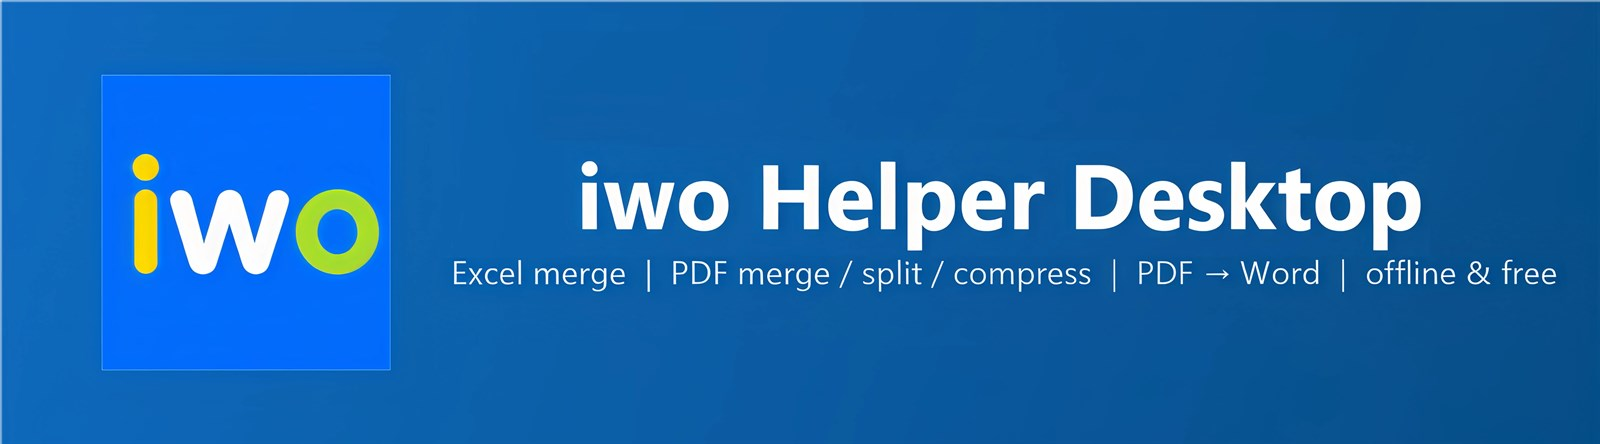
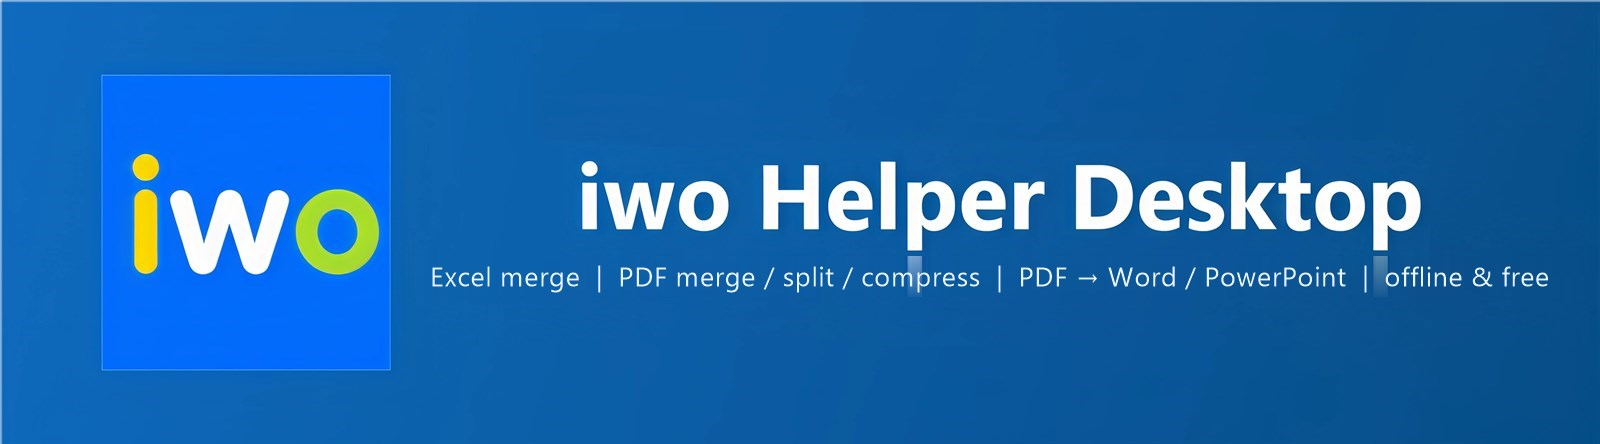
Stop the system font from reaching the layout, and make a double-click mean one thing
Windows has a text-size setting separate from display scaling, and it moves the system
font underneath an application. Every window here already sets its own font, so that
setting could not touch them - except through menus, which are drawn with the system
menu font while their strip has a fixed height. A larger system font clipped the
captions from below. Menus now use the application font like everything else, which is
the whole of the exposure: a test walks the windows and the menu strip and fails if a
control turns up with a font from outside the app's own set, and it fails on the old
code.

A double-click on the zoom percentage now resets it to 100 %, the same as a double-click
on the "%" beside it and the same as Ctrl+0. Before, it selected the number - and a
selection appearing out of nowhere reads as "copied to the clipboard": a gesture that
looks like it worked while doing nothing at all. The spinner arrows are deliberately left
alone, because a quick double-click there is two steps of zoom and not a request to
reset; both halves are covered by a live test that drives the inner text box and the
arrows separately.

The README contents now carry the same icons as the sections they lead to, split across
two short rows - a row wider than about seven hundred pixels is wrapped and centred by
GitHub, which reads as a vertical list of links rather than a line of them.

The banner said the app turns PDFs into Word and stopped there. It is a picture with the
[…]

Changed region(s): [[0.25, 0.5856, 0.9688, 0.6734]]

diff --git a/tests/UnitTests.cs b/tests/UnitTests.cs
@@ -335,6 +335,8 @@ namespace ExcelMerger.Tests
             Run("Обновления: подпись флажка помещается в диалог на обоих языках", TestUpdateSkipCaptionFits);
             Run("Настройки (живое): три действия истории — в ряд и без обрезки подписей", TestSettingsHistoryRowLive);
             Run("Хаб (живое): значки настроек и справки доступны с клавиатуры и диктору", TestHubIconButtonsLive);
+            Run("Крупный системный шрифт: окна и меню живут своим шрифтом", TestSystemFontIgnoredLive);
+            Run("Масштаб (живое): двойной клик по полю процентов возвращает 100%", TestZoomDoubleClickResetsLive);
             Run("Настройки (живое): флажок пишется, «снова напоминать» появляется по делу", TestSettingsUpdateControlsLive);
 
             Run("XmlText: экранируются & < > и кавычка", TestXmlEscape);
@@ -371,7 +373,7 @@ namespace ExcelMerger.Tests
             Console.WriteLine("Пройдено: " + _passed + ", провалено: " + _failed);
             // Нижняя граница числа тестов: без неё удалённая строка Run(...) проходит незаметно —
             // прогон остаётся зелёным, просто проверок становится меньше. Растёт вместе с набором.
-            const int MinTests = 335;
+            const int MinTests = 337;
             int total = _passed + _failed;
             int code = _failed == 0 ? 0 : 1;
             if (total < MinTests)
@@ -6405,6 +6407,128 @@ namespace ExcelMerger.Tests
                     }
             });
             AssertTrue(offenders.Count == 0, "раскладка диалогов: " + string.Join(" | ", offenders.ToArray()));
+        }
+
+        /// <summary>
+        /// Двойной клик по полю процентов возвращает масштаб к 100%. Раньше этот жест штатно
+        /// ВЫДЕЛЯЛ число, и выделение принимали за «скопировалось в буфер»: жест выглядел
+        /// сработавшим, не делая ничего. Проверяем на настоящем окне и через внутреннее поле
+        /// ввода — события мыши получает именно оно, а не сам NumericUpDown.
+        /// </summary>
+        private static void TestZoomDoubleClickResetsLive()
+        {
+            var offenders = new List<string>();
+            RunSta(delegate
+            {
+                using (var form = new OcrForm())
+                {
+                    IntPtr handle = form.Handle;
+                    if (handle == IntPtr.Zero) { offenders.Add("окно не создалось"); return; }
+                    System.Windows.Forms.NumericUpDown input = null;
+                    foreach (System.Windows.Forms.Control c in form.Controls)
+                    {
+                        input = c as System.Windows.Forms.NumericUpDown;
+                        if (input != null) break;
+                    }
+                    if (input == null) { offenders.Add("поля процентов нет"); return; }
+
+                    // Значение заведомо допустимое и ЗАВЕДОМО не 100%: границы масштаба
+                    // заданы ThumbZoom, и литерал вроде 50 может оказаться вне диапазона.
+                    input.Value = input.Maximum;
+                    System.Windows.Forms.Control inner = null;
+                    foreach (System.Windows.Forms.Control c in input.Controls)
+                        if (c is System.Windows.Forms.TextBox) { inner = c; break; }
+                    if (inner == null) { offenders.Add("внутреннего поля ввода нет"); return; }
+
+                    // Двойной клик приходит внутреннему полю — поднимаем событие именно у него.
+                    System.Reflection.MethodInfo raise = typeof(System.Windows.Forms.Control).GetMethod(
+                        "OnDoubleClick", System.Reflection.BindingFlags.Instance | System.Reflection.BindingFlags.NonPublic);
+                    if (raise == null) { offenders.Add("не добраться до OnDoubleClick"); return; }
+                    raise.Invoke(inner, new object[] { EventArgs.Empty });
+
+                    if (input.Value != 100)
+                        offenders.Add("после двойного клика масштаб " + input.Value + "%, а должен быть 100%");
+
+                    // А вот двойной щелчок по СТРЕЛКАМ сбрасывать не должен: это два шага
+                    // масштаба подряд, а не просьба вернуть 100%.
+                    System.Windows.Forms.Control buttons = null;
+                    foreach (System.Windows.Forms.Control c in input.Controls)
+                        if (!(c is System.Windows.Forms.TextBox)) { buttons = c; break; }
+                    if (buttons != null)
+                    {
+                        input.Value = input.Maximum;
+                        raise.Invoke(buttons, new object[] { EventArgs.Empty });
+                        if (input.Value != input.Maximum)
+                            offenders.Add("двойной щелчок по стрелкам сбросил масштаб, а не должен");
+                    }
+                }
+            });
+            AssertTrue(offenders.Count == 0, "сброс масштаба: " + string.Join(" | ", offenders.ToArray()));
+        }
+
+        /// <summary>
+        /// Размер шрифта, выбранный в системе («размер текста» в специальных возможностях),
+        /// не должен доставать до нашей раскладки: все окна задают шрифт явно, а полоса меню
+        /// имеет фиксированную высоту, и системным шрифтом её подписи обрезало бы снизу.
+        /// Проверяем оба конца: окна и все их контролы живут разрешёнными шрифтами, а меню —
+        /// шрифтом приложения, и его подписи помещаются в высоту полосы.
+        /// </summary>
+        private static void TestSystemFontIgnoredLive()
+        {
+            var offenders = new List<string>();
+            // Символьные шрифты законны: ими рисуются глифы значков и стрелок.
+            var allowed = new List<string> { "Segoe UI", "Segoe MDL2 Assets", "Segoe UI Symbol", "Segoe UI Emoji" };
+            RunSta(delegate
+            {
+                var windows = new List<System.Windows.Forms.Form>
+                {
+                    new StartForm(), new SettingsForm(), new AboutForm(), new StatsForm()
+                };
+                try
+                {
+                    foreach (System.Windows.Forms.Form form in windows)
+                    {
+                        IntPtr handle = form.Handle;
+                        if (handle == IntPtr.Zero) { offenders.Add(form.GetType().Name + ": окно не создалось"); continue; }
+                        if (Math.Abs(form.Font.SizeInPoints - 9.75f) > 0.01f)
+                            offenders.Add(form.GetType().Name + ": шрифт окна " + form.Font.SizeInPoints + " pt");
+                        WalkFonts(form, form.GetType().Name, allowed, offenders);
+                    }
+                }
+                finally
+                {
+                    foreach (System.Windows.Forms.Form form in windows)
+                        try { form.Dispose(); } catch { }
+                }
+
+                // Полоса меню: свой шрифт и подписи, помещающиеся в её фиксированную высоту.
+                using (var owner = new System.Windows.Forms.Form())
+                {
+                    System.Windows.Forms.MenuStrip menu = HelpMenu.Create(owner, delegate { });
+                    if (Math.Abs(menu.Font.SizeInPoints - 9.75f) > 0.01f)
+                        offenders.Add("полоса меню: шрифт " + menu.Font.SizeInPoints + " pt (системный?)");
+                    foreach (System.Windows.Forms.ToolStripItem item in menu.Items)
+                    {
+                        int need = System.Windows.Forms.TextRenderer.MeasureText(item.Text, menu.Font).Height;
+                        if (need > HelpMenu.Height - 6)
+                            offenders.Add("пункт «" + item.Text + "» не помещается в полосу: нужно " + need);
+                    }
+                    menu.Dispose();
+                }
+            });
+            AssertTrue(offenders.Count == 0, "системный шрифт: " + string.Join(" | ", offenders.ToArray()));
+        }
+
+        /// <summary>Обойти дерево контролов и собрать те, чей шрифт не из разрешённых семейств.</summary>
+        private static void WalkFonts(System.Windows.Forms.Control root, string where,
+            List<string> allowed, List<string> offenders)
+        {
+            foreach (System.Windows.Forms.Control c in root.Controls)
+            {
+                if (c.Font != null && !allowed.Contains(c.Font.FontFamily.Name))
+                    offenders.Add(where + ": " + c.GetType().Name + " шрифтом «" + c.Font.FontFamily.Name + "»");
+                WalkFonts(c, where, allowed, offenders);
+            }
         }
 
         /// <summary>Выполнить действие на STA-потоке: окна WinForms другого не терпят.</summary>

diff --git a/src/PdfToolFormBase.cs b/src/PdfToolFormBase.cs
@@ -166,7 +166,29 @@ namespace ExcelMerger
                 _zoom.Value = width; // → ValueChanged → ScheduleZoom + SyncZoomInput (под guard)
         }
 
-        /// <summary>Сбросить масштаб к 100% (Ctrl+0, двойной клик по «%»).</summary>
+        /// <summary>
+        /// Подписать обработчик двойного клика на контрол и на его ПОЛЕ ВВОДА. Составные
+        /// контролы (NumericUpDown) отдают события мыши вложенному полю, и подписка только на
+        /// внешний контрол молча не сработала бы. Кнопки-стрелки НЕ подписываем: быстрый
+        /// двойной щелчок по стрелке — это два шага масштаба, а не просьба сбросить его.
+        /// Возвращает число подписок — по нему проверка видит, что поле не забыто.
+        /// </summary>
+        internal static int WireDoubleClick(Control control, EventHandler handler)
+        {
+            if (control == null || handler == null)
+                return 0;
+            control.DoubleClick += handler;
+            int count = 1;
+            foreach (Control child in control.Controls)
+                if (child is TextBoxBase)
+                {
+                    child.DoubleClick += handler;
+                    count++;
+                }
+            return count;
+        }
+
+        /// <summary>Сбросить масштаб к 100% (Ctrl+0, двойной клик по полю «%» и по самой подписи).</summary>
         private void ResetZoom()
         {
             if (_zoom != null)
@@ -410,6 +432,12 @@ namespace ExcelMerger
             _zoomPct.Anchor = AnchorStyles.Bottom | AnchorStyles.Right;
             _zoomPct.Cursor = Cursors.Hand;                    // рука на «%»: видно, что кликабельно (сброс)
             _zoomPct.DoubleClick += delegate { ResetZoom(); }; // двойной клик по «%» → 100%
+            // Двойной клик по САМОМУ полю — тот же сброс. Штатно он выделял бы число, и это
+            // выделение люди принимают за «скопировалось в буфер»: жест выглядит сработавшим,
+            // хотя не делает ничего. Один и тот же жест на поле и на «%» рядом обязан значить
+            // одно и то же, поэтому подписываем обработчик и полю, и его внутренним контролам
+            // (у NumericUpDown события мыши получает вложенное поле ввода, а не он сам).
+            WireDoubleClick(_zoomInput, delegate { ResetZoom(); });
 
             _zoomTimer = new System.Windows.Forms.Timer();
             _zoomTimer.Interval = 60; // троттлинг пересборки плиток при перетаскивании регулятора

diff --git a/src/HelpMenu.cs b/src/HelpMenu.cs
@@ -14,9 +14,20 @@ namespace ExcelMerger
     {
         public const int Height = 28;
 
+        /// <summary>
+        /// Меню рисуются шрифтом ПРИЛОЖЕНИЯ, а не системным шрифтом меню. Причина простая:
+        /// полоса меню имеет фиксированную высоту (<see cref="Height"/>, её масштабирует DPI),
+        /// а системный размер шрифта задаётся ОТДЕЛЬНОЙ настройкой Windows — «размер текста» в
+        /// специальных возможностях. С крупным системным шрифтом подписи в полосе обрезались
+        /// бы снизу, и это единственное место, где системный шрифт вообще доставал до нашей
+        /// раскладки: все окна свой шрифт задают явно.
+        /// </summary>
+        private static Font AppFont { get { return Ui.Font(9.75f); } }
+
         public static MenuStrip Create(Form owner, Action showHowTo, params ToolStripMenuItem[] extras)
         {
             var menu = new MenuStrip();
+            menu.Font = AppFont; // не системный шрифт меню — см. AppFont
             menu.AutoSize = false;
             menu.Height = Height;
             menu.Dock = DockStyle.Top;
@@ -63,6 +74,7 @@ namespace ExcelMerger
         internal static ContextMenuStrip LanguageContextMenu()
         {
             var menu = new ContextMenuStrip();
+            menu.Font = AppFont; // как и полоса меню — своим шрифтом
             menu.Items.Add(LangItem(Loc.T("menu.lang.ru"), Lang.Ru));
             menu.Items.Add(LangItem(Loc.T("menu.lang.en"), Lang.En));
             return menu;

diff --git a/src/Loc.cs b/src/Loc.cs
@@ -173,8 +173,8 @@ namespace ExcelMerger
             A("common.homeTip", "Открыть экран выбора инструмента", "Open the tool chooser");
             A("common.zoom", "Масштаб:", "Zoom:");
             A("common.tip.zoom", "Масштаб миниатюр (также Ctrl+колесо мыши)", "Thumbnail zoom (also Ctrl+mouse wheel)");
-            A("common.tip.zoomInput", "Масштаб в процентах (Ctrl+0 или двойной клик по «%» — 100%)",
-                "Zoom percentage (Ctrl+0 or double-click “%” for 100%)");
+            A("common.tip.zoomInput", "Масштаб в процентах (Ctrl+0 или двойной клик — 100%)",
+                "Zoom percentage (Ctrl+0 or a double-click for 100%)");
             A("common.busy", "Дождитесь завершения…", "Wait for it to finish…");
             A("common.err.openFailed", "Не удалось открыть", "Could not open");
             A("common.err.browser", "Не удалось открыть браузер", "Could not open the browser");

diff --git a/src/PdfPageGrid.cs b/src/PdfPageGrid.cs
@@ -1447,6 +1447,7 @@ namespace ExcelMerger
         private void BuildContextMenu()
         {
             _menu = new ContextMenuStrip();
+            _menu.Font = Ui.Font(9.75f); // шрифт приложения, а не системный (см. HelpMenu)
             _miCut = AddMenuItem(Loc.T("grid.menu.cut"), "Ctrl+X", delegate { CutSelected(); });
             _miCopy = AddMenuItem(Loc.T("grid.menu.copy"), "Ctrl+C", delegate { CopySelected(); });
             _miPaste = AddMenuItem(Loc.T("grid.menu.paste"), "Ctrl+V", delegate { PasteClipboard(); });

diff --git a/src/MainForm.cs b/src/MainForm.cs
@@ -249,6 +249,7 @@ namespace ExcelMerger
             _list.DragDrop += OnFileDragDrop;
             _list.DragLeave += delegate { HideDropLine(); };
             _listMenu = new ContextMenuStrip();
+            _listMenu.Font = Ui.Font(9.75f); // шрифт приложения, а не системный (см. HelpMenu)
             var copyItem = new ToolStripMenuItem(Loc.T("common.copy"));
             copyItem.ShortcutKeyDisplayString = "Ctrl+C";
             copyItem.Click += delegate { CopySelectedRows(); };

diff --git a/docs/CHANGELOG.md b/docs/CHANGELOG.md
@@ -54,12 +54,26 @@ versions follow [SemVer](https://semver.org/).
   the heading is centred, so the window is a screenful shorter; the paragraph explaining the
   update check is justified to both margins, because a ragged right edge is far more visible
   in a narrow window than in a page-wide text.
+- **A large system font no longer reaches our layout.** Every window sets its own font, but
+  menus did not: a menu strip has a fixed height and drew its items with the system menu
+  font, so the “text size” accessibility setting could clip the captions from below. Menus
+  now use the application font like everything else — the one place where that setting could
+  still reach the layout.
+- **A double-click on the zoom percentage resets it to 100 %**, the same as a double-click on
+  the “%” next to it and the same as Ctrl+0. It used to select the number instead, and a
+  selection that appears out of nowhere reads as “copied to the clipboard” — a gesture that
+  looks like it worked while doing nothing. A double-click on the spinner arrows still means
+  two steps of zoom, not a reset.
 - **The window header is vertically centred.** The title and its subtitle were pinned to the
   bottom edge of the coloured band, leaving empty colour above them — which read as a header
   that had slipped down. The block now stands in the middle of the band, and the language
   globe and “Back” follow it, because they are aligned to the text and not to a literal.
 - **The README badges sit on one line again.** Each was on its own source line, and GitHub
   renders that as a break — the row of badges came out as a column.
+- **The README contents carry the same icons as the sections** they point to, and the banner
+  says what the app does now — the tagline is redrawn by `tools/set_banner_tagline.ps1`,
+  which restores the background under the line by interpolating the untouched rows around it
+  instead of guessing the gradient, and shrinks the font until the line fits.
 - **The download links live in one place.** Four large buttons at the top of the README
   repeated the Download section word for word, and both rows were wider than the README
   column on a desktop, so they wrapped and the wrapped tail was centred — which is what

diff --git a/docs/ARCHITECTURE.md b/docs/ARCHITECTURE.md
@@ -143,7 +143,7 @@ are conceptual.
 | `Loc.cs`, `Flags.cs` | Localization catalog and GDI-drawn menu flags — see [Localization](#localization). |
 | `SetupLanguage.cs` | The language picked in the installer. Setup writes a one-line ASCII file next to the settings, the app applies it at startup (it outranks the stored language), saves it the normal UTF-8 way and removes the marker. Setup never edits `settings.txt` itself: it writes text in the system code page while the app reads UTF-8, and a read-modify-write would corrupt non-ASCII paths inside. |
 | `UserManual.cs` | The user guide (`.docx`) embedded as a resource: unpacked next to the settings on demand and opened from “About”. Embedded rather than installed so the portable build has it too, and so it needs no internet. |
-| `Theme.cs`, `Ui.cs`, `HelpMenu.cs` | Palette, DPI/layout helpers, the shared ☰ menu. |
+| `Theme.cs`, `Ui.cs`, `HelpMenu.cs` | Palette, DPI/layout helpers, the shared ☰ menu. Menus are drawn with the **application** font rather than the system menu font: the strip has a fixed height, while the system font size is a separate Windows setting, and that combination clipped the captions. Every window sets its own font too, so that setting cannot reach the layout anywhere else. |
 | `JustifiedText.cs` | A paragraph justified to both margins — WinForms offers left, right and centre only, so the alignment is set on the paragraph format through `EM_SETPARAFORMAT`. Shared by About and Settings; re-applied on every handle creation, because WinForms recreates the window and a one-time setup would be lost. |
 
 ### UI toolkit (owner-drawn, shared by all tools)

diff --git a/README.md b/README.md
@@ -12,7 +12,7 @@
 
 </div>
 
-**Contents** — [Features](#-features) · [Screenshots](#-screenshots) · [Download](#-download) · [Usage](#-usage) · [Build from source](#-build-from-source)
+**Contents** — 🚀 [Features](#-features) · 📸 [Screenshots](#-screenshots) · ⬇ [Download](#-download) · 🖥 [Usage](#-usage)<br>🛠 [Build from source](#-build-from-source) · 🧩 [Built with](#-built-with) · 🔒 [Privacy](#-privacy) · ⚖ [License](#-license)
 
 ## What is iwo Helper Desktop?
 
@@ -81,7 +81,7 @@ Six actions over one document, each writing a **new** file — the source is nev
 |:--:|:--:|
 | <img src="docs/screenshots/hub.png" width="400" alt="Start screen"><br>**Start screen** — pick a section, then a tool | <img src="docs/screenshots/excel.png" width="400" alt="Merge Excel"><br>**Merge Excel** |
 | <img src="docs/screenshots/pdf-merge.png" width="400" alt="PDF Merge"><br>**PDF Merge** — thumbnails & compression | <img src="docs/screenshots/pdf-split.png" width="400" alt="PDF Split"><br>**PDF Split** — modes & compression |
-| <img src="docs/screenshots/pdf-word.png" width="400" alt="PDF to Word"><br>**PDF → Word** — text & tables into an editable `.docx` | |
+| <img src="docs/screenshots/pdf-word.png" width="400" alt="PDF to Word"><br>**PDF → Word** — text & tables into an editable `.docx` | <img src="docs/screenshots/pdf-pptx.png" width="400" alt="PDF to PowerPoint"><br>**PDF → PowerPoint** — pages into slides with editable text |
 
 ## ⬇ Download
 
